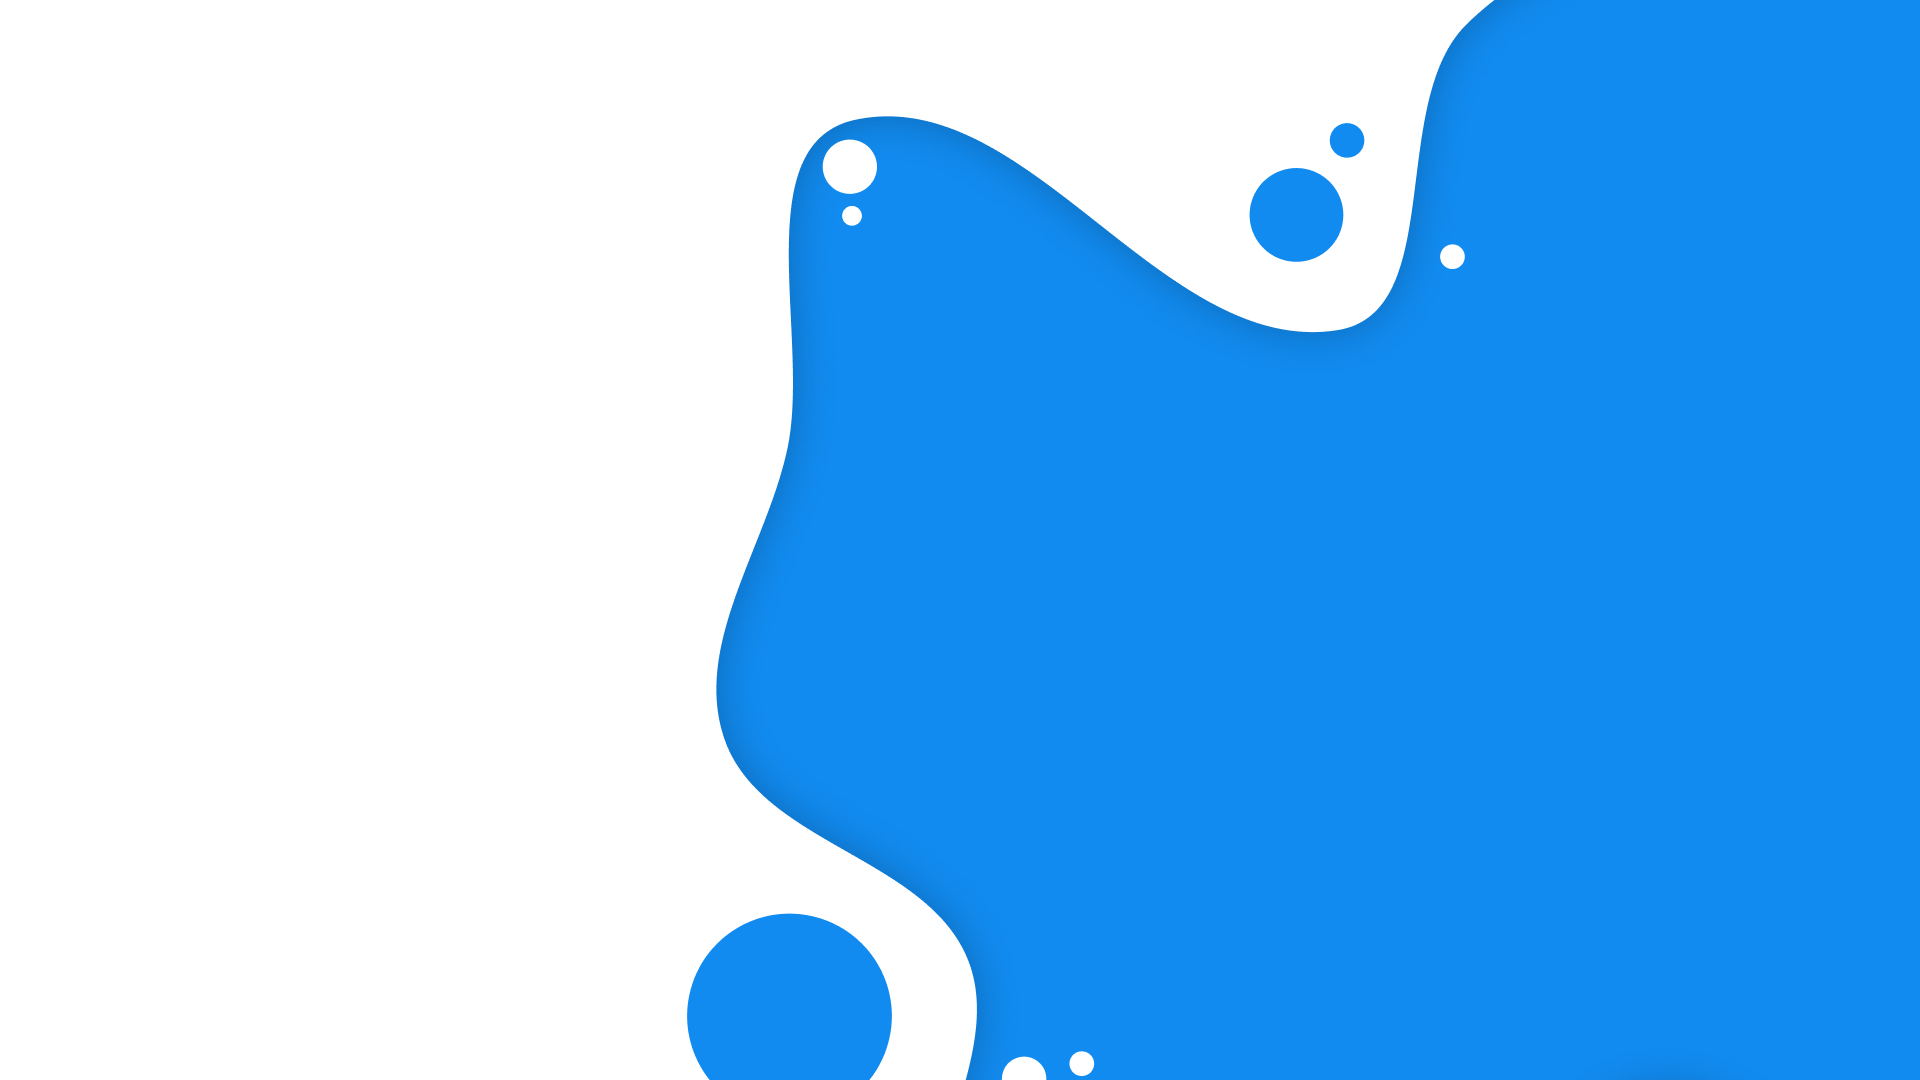
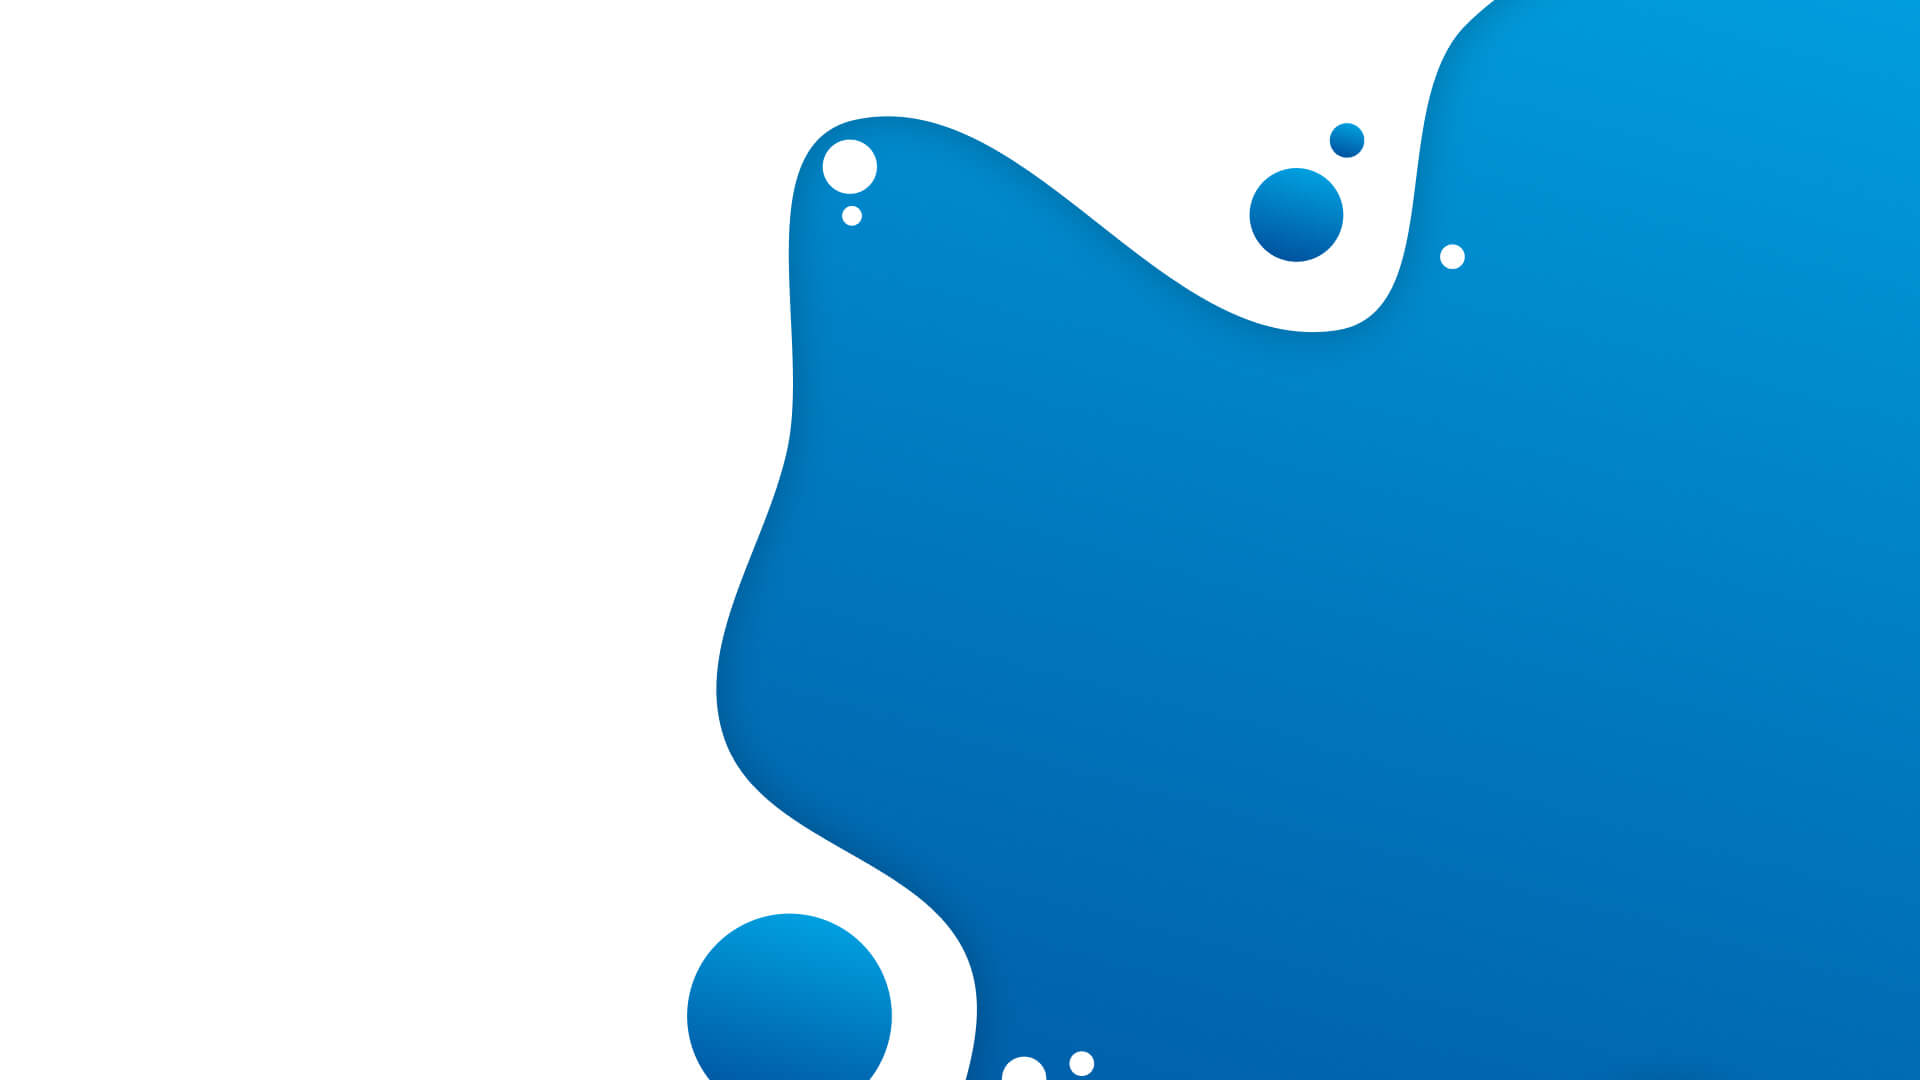
albertsons

diff --git a/src/svg.js b/src/svg.js
@@ -26,21 +26,21 @@ export const Machine = (props) => {
 <svg className="w-30 fade pos-abs" viewBox="0 0 557 851" fill="none" xmlns="http://www.w3.org/2000/svg">
     <g id="machine">
       <path id="Vector" d="M387 214.6V786.38H412.32C491.9 786.38 556.42 757.23 556.42 721.27V279.71C556.42 243.71 491.9 214.6 412.32 214.6H387Z" fill="#0071CE" />
-      <path id="Vector_2" d="M472 260C473.359 260 474.504 259.277 474.653 258.348L476 242.8C476 241.26 474.221 240 472 240C469.768 240 468 241.26 468 242.8L469.359 258.348C469.502 259.277 470.641 260 472 260Z" fill="#FFC220" />
-      <path id="Vector_3" d="M463.5 265.311C464.201 264.007 464.161 262.56 463.404 261.914L450.314 252.295C448.953 251.46 446.915 252.454 445.749 254.56C444.585 256.663 444.821 259.023 446.155 259.841L460.647 266.902C461.574 267.267 462.787 266.589 463.5 265.298" fill="#FFC220" />
-      <path id="Vector_4" d="M480.482 265.288C481.224 266.578 482.438 267.256 483.342 266.91L497.848 259.833C499.196 258.999 499.398 256.663 498.258 254.561C497.094 252.456 495.041 251.469 493.682 252.286L480.576 261.892C479.849 262.547 479.796 264.001 480.498 265.301" fill="#FFC220" />
-      <path id="Vector_5" d="M472 280C473.359 280 474.504 280.723 474.653 281.653L476 297.211C476 298.751 474.221 300 472 300C469.768 300 468 298.751 468 297.211L469.359 281.653C469.502 280.723 470.641 280 472 280Z" fill="#FFC220" />
-      <path id="Vector_6" d="M480.482 274.712C481.224 273.418 482.438 272.727 483.342 273.102L497.848 280.168C499.196 280.986 499.398 283.343 498.258 285.449C497.094 287.538 495.041 288.532 493.682 287.714L480.576 278.092C479.849 277.443 479.796 275.996 480.498 274.712" fill="#FFC220" />
-      <path id="Vector_7" d="M463.5 274.698C464.201 275.999 464.161 277.444 463.404 278.096L450.314 287.705C448.953 288.54 446.915 287.542 445.749 285.452C444.585 283.349 444.821 280.988 446.155 280.17L460.647 273.101C461.574 272.729 462.787 273.414 463.5 274.698Z" fill="#FFC220" />
+      <g id="Group 71">
+        <path id="Vector_2" d="M466.49 254.098C458.438 263.156 450.386 272.951 442.581 282.205C442.136 282.746 441.889 283.435 441.543 284.026C440.308 287.127 441.247 290.819 443.667 292.886C448.163 292.985 452.51 293.083 457.203 292.886C457.153 292.493 456.808 292.246 456.61 291.902C454.98 289.49 454.98 285.946 456.511 283.534C464.415 273.788 472.566 264.288 480.865 254.541C480.964 254.443 481.112 254.197 480.865 254.098C478.79 254.148 476.715 254.098 474.641 254.049C473.06 254.049 471.528 254 470.046 254C468.861 254 467.675 254 466.49 254.098Z" fill="#00539F" />
+        <path id="Vector_3" d="M475.049 263.122L475 263.606L485.628 276.272C487.704 278.883 490.076 281.252 491.905 284.008C493.24 286.763 492.745 290.438 490.768 292.807L490.818 293H504.016C504.856 292.855 505.301 291.985 505.894 291.356C507.327 288.842 507.426 285.361 505.844 282.944C498.133 273.662 490.274 264.234 482.464 255.048L482.118 255L475.049 263.122Z" fill="#00A0E0" />
+        <path id="Vector_4" d="M469.627 272.351C467.352 277.307 471.847 280.973 473.9 285C475.176 282.418 477.84 280.198 478.616 277.307C480.226 272.918 476.397 269.408 474.066 266C472.512 268.065 470.737 270.13 469.627 272.351Z" fill="#00539F" />
+        <path id="Vector_5" d="M461.87 280C461.323 280 460.776 280 460.229 280L460.08 280.099C459.881 281.73 460.03 283.46 460.776 284.943C462.466 288.255 465.946 289.738 469.624 289.342C471.613 289.639 473.353 291.072 473.8 293C474.397 291.962 475.092 290.43 476.435 289.886C478.97 288.798 482.35 289.836 484.488 288.008C487.172 286.327 488.514 283.114 487.818 280.099C487.122 280.099 486.377 280.099 485.681 280.049C483.096 280 480.411 279.901 478.423 281.335C476.186 282.62 474.745 284.795 473.949 287.118C473.204 285.091 471.961 282.966 470.122 281.73C468.233 280.247 465.797 280.049 463.311 280.049C462.864 280 462.367 280 461.87 280Z" fill="#00539F" />
+      </g>
       <path id="Vector 2" opacity="0.25" d="M395.581 761.24H387.191V242.66C389.531 248.88 392.391 253.4 395.581 255.49V761.24Z" fill="white" />
       <path id="Vector 3" opacity="0.25" d="M544 276.33V292.89C544 262.24 489 237.39 421.19 237.39H399.57V220.84H421.14C488.94 220.84 544 245.67 544 276.33Z" fill="#F7F9FF" />
       <path id="Vector 4" opacity="0.25" d="M556.44 696.13V721.27C556.44 757.27 491.92 786.38 412.34 786.38H387V761.24H412.32C491.92 761.24 556.44 732.1 556.44 696.13Z" fill="#181818" />
       <path id="Vector 5" opacity="0.25" d="M556.44 696.13V721.27C556.44 757.27 491.92 786.38 412.34 786.38H387V761.24H412.32C491.92 761.24 556.44 732.1 556.44 696.13Z" fill="#181818" />
       <path id="Vector 6" opacity="0.25" d="M541.69 311.48C544.83 311.48 547.37 309.42 547.37 306.88C547.37 304.34 544.83 302.29 541.69 302.29C538.55 302.29 536.02 304.35 536.02 306.88C536.02 309.41 538.56 311.48 541.69 311.48Z" fill="#F7F9FF" />
-      <path id="dropHeight" d="M478.391 313.38H468.801V687.58H478.391V313.38Z" fill="#005397" />
+      <path id="dropHeight" d="M478.391 313.38H468.801V687.58H478.391V313.38Z" fill="#00579F" />
       <g id="pull" className="hov trans" onClick={ctr === 1 ? clicked : undefined}>
         <path id="Vector 7" d="M544.71 332.31V365.14C544.72 365.303 544.72 365.467 544.71 365.63V366.47C544.37 371.369 542.179 375.955 538.582 379.297C534.985 382.64 530.251 384.489 525.34 384.47H427.34C422.455 384.482 417.746 382.645 414.158 379.328C410.571 376.012 408.371 371.461 408 366.59C408 366.18 408 365.76 408 365.35V332.35C408.004 329.803 408.51 327.282 409.489 324.931C410.467 322.58 411.9 320.445 413.705 318.648C415.509 316.851 417.65 315.427 420.005 314.458C422.36 313.489 424.883 312.993 427.43 313H525.32C530.449 313.005 535.367 315.04 539 318.66C542.633 322.28 544.686 327.191 544.71 332.32V332.31Z" fill="#51678D" />
-        <path id="Vector 8" d="M542.269 329.76V361.5C542.289 361.656 542.289 361.814 542.269 361.97V362.79C541.929 367.503 539.822 371.913 536.37 375.14C532.917 378.366 528.374 380.17 523.649 380.19H429.429C424.724 380.17 420.198 378.382 416.749 375.181C413.3 371.98 411.18 367.601 410.809 362.91C410.809 362.51 410.809 362.11 410.809 361.71V329.76C410.806 327.296 411.29 324.855 412.232 322.578C413.174 320.301 414.555 318.231 416.298 316.489C418.04 314.746 420.11 313.365 422.387 312.423C424.664 311.481 427.105 310.997 429.569 311H523.569C528.536 311.013 533.295 312.996 536.802 316.512C540.309 320.029 542.279 324.793 542.279 329.76H542.269Z" fill="#FFC220" />
+        <path id="Vector 8" d="M542.269 329.76V361.5C542.289 361.656 542.289 361.814 542.269 361.97V362.79C541.929 367.503 539.822 371.913 536.37 375.14C532.917 378.366 528.374 380.17 523.649 380.19H429.429C424.724 380.17 420.198 378.382 416.749 375.181C413.3 371.98 411.18 367.601 410.809 362.91C410.809 362.51 410.809 362.11 410.809 361.71V329.76C410.806 327.296 411.29 324.855 412.232 322.578C413.174 320.301 414.555 318.231 416.298 316.489C418.04 314.746 420.11 313.365 422.387 312.423C424.664 311.481 427.105 310.997 429.569 311H523.569C528.536 311.013 533.295 312.996 536.802 316.512C540.309 320.029 542.279 324.793 542.279 329.76H542.269Z" fill="#00A0E0" />
         <path id="Vector 9" d="M533.322 319.32C531.073 317.122 528.047 315.9 524.902 315.92H428.112C426.537 315.888 424.971 316.163 423.502 316.73C421.29 317.59 419.382 319.086 418.021 321.03C416.659 322.973 415.904 325.277 415.852 327.65V365.16C415.863 366.176 416.014 367.186 416.302 368.16C416.835 369.986 417.795 371.658 419.102 373.04C420.243 374.259 421.625 375.227 423.161 375.881C424.697 376.535 426.353 376.862 428.022 376.84H524.802C527.434 376.853 530 376.011 532.112 374.44C532.723 373.992 533.286 373.483 533.792 372.92C535.064 371.561 536.002 369.924 536.532 368.14C536.811 367.165 536.953 366.155 536.952 365.14V327.65C536.881 324.505 535.577 321.513 533.322 319.32ZM534.532 362.7C534.527 364.411 534.137 366.099 533.392 367.64C532.647 369.193 531.564 370.56 530.222 371.64C527.992 373.424 525.218 374.391 522.362 374.38H430.622C427.728 374.383 424.921 373.39 422.672 371.57C421.34 370.501 420.264 369.148 419.522 367.61C418.78 366.072 418.39 364.388 418.382 362.68V330.06C418.419 327.667 419.187 325.342 420.583 323.397C421.979 321.452 423.936 319.981 426.192 319.18C427.596 318.671 429.078 318.411 430.572 318.41H522.322C523.803 318.41 525.272 318.67 526.662 319.18C528.938 319.972 530.915 321.446 532.324 323.402C533.732 325.357 534.503 327.7 534.532 330.11V362.7Z" fill="#51678D" />
         <path id="Vector 10" opacity="0.3" d="M539.499 326.26V329.15C539.575 325.705 538.28 322.371 535.899 319.88C534.721 318.645 533.311 317.656 531.749 316.97C530.187 316.283 528.505 315.913 526.799 315.88H426.209C424.502 315.915 422.818 316.286 421.254 316.972C419.69 317.658 418.277 318.645 417.095 319.878C415.913 321.11 414.985 322.563 414.365 324.154C413.744 325.745 413.443 327.443 413.479 329.15V326.26C413.409 322.814 414.711 319.481 417.098 316.994C419.486 314.508 422.763 313.071 426.209 313H526.799C530.242 313.079 533.513 314.52 535.894 317.008C538.275 319.496 539.571 322.827 539.499 326.27V326.26Z" fill="#F7F9FF" />
         <path id="Vector 11" opacity="0.15" d="M541.929 363.18C541.586 367.891 539.478 372.299 536.026 375.523C532.574 378.747 528.033 380.55 523.309 380.57H429.179C424.474 380.55 419.948 378.762 416.499 375.561C413.05 372.36 410.93 367.981 410.559 363.29C410.85 365.726 411.957 367.992 413.699 369.72C415.505 371.57 417.813 372.849 420.339 373.4C421.457 373.684 422.606 373.825 423.759 373.82H528.759C529.911 373.822 531.059 373.688 532.179 373.42C534.717 372.864 537.034 371.569 538.839 369.7C540.574 367.933 541.672 365.639 541.959 363.18H541.929Z" fill="#212121" />
@@ -62,13 +62,13 @@ export const Machine = (props) => {
         <path id="Vector 21" opacity="0.5" d="M89.7319 657.87V683.71L33.6719 601.43V575.6L89.7319 657.87Z" fill="#F7F9FF" />
       </g>
       <g id="pointer">
-        <path id="Vector_3_2" d="M60.49 495.69L0 556.18V435.2L60.49 495.69Z" fill="#FFC220" />
+        <path id="Vector_3_2" d="M60.49 495.69L0 556.18V435.2L60.49 495.69Z" fill="#00A0E0" />
         <path id="Vector_4_2" opacity="0.45" d="M60.49 495.69L0 556.18V549.78L33.67 519.67L45.79 508.83L60.49 495.69Z" fill="#AD5A1E" />
         <path id="Vector 24" opacity="0.45" d="M54.5614 492.75L55.3414 491.97L6.72141 443.35L5.94141 444.13L54.5614 492.75Z" fill="#F7F9FF" />
       </g>
-      <path id="Vector 25" d="M330.608 0H58.7981C55.6897 0 52.7087 1.23478 50.5108 3.43271C48.3128 5.63063 47.0781 8.61166 47.0781 11.72V112.8C47.0781 115.908 48.3128 118.889 50.5108 121.087C52.7087 123.285 55.6897 124.52 58.7981 124.52H330.608C333.716 124.52 336.697 123.285 338.895 121.087C341.093 118.889 342.328 115.908 342.328 112.8V11.72C342.328 8.61166 341.093 5.63063 338.895 3.43271C336.697 1.23478 333.716 0 330.608 0Z" fill="#FFC220" />
-      <g id="Vector 34" filter="url(#filter0_i_420_1954)">
-        <path d="M335.281 19.41V105.13C335.278 108.238 334.043 111.219 331.846 113.418C329.649 115.617 326.669 116.855 323.561 116.86H65.8411C62.7318 116.857 59.7508 115.62 57.5532 113.421C55.3556 111.221 54.1211 108.239 54.1211 105.13V19.41C54.1198 17.6728 54.506 15.9572 55.2516 14.3882C55.9972 12.8191 57.0834 11.4362 58.4311 10.34C59.2597 9.64958 60.1822 9.08055 61.1711 8.65002C62.6512 8.00453 64.2464 7.66441 65.8611 7.65002H323.561C326.669 7.65267 329.648 8.8883 331.845 11.0856C334.043 13.283 335.278 16.2625 335.281 19.37V19.41Z" fill="#FFC220" />
+      <path id="Vector 25" d="M330.608 0H58.7981C55.6897 0 52.7087 1.23478 50.5108 3.43271C48.3128 5.63063 47.0781 8.61166 47.0781 11.72V112.8C47.0781 115.908 48.3128 118.889 50.5108 121.087C52.7087 123.285 55.6897 124.52 58.7981 124.52H330.608C333.716 124.52 336.697 123.285 338.895 121.087C341.093 118.889 342.328 115.908 342.328 112.8V11.72C342.328 8.61166 341.093 5.63063 338.895 3.43271C336.697 1.23478 333.716 0 330.608 0Z" fill="#00A0E0" />
+      <g id="Vector 34" filter="url(#filter0_i_420_1953)">
+        <path d="M335.281 19.41V105.13C335.278 108.238 334.043 111.219 331.846 113.418C329.649 115.617 326.669 116.855 323.561 116.86H65.8411C62.7318 116.857 59.7508 115.62 57.5532 113.421C55.3556 111.221 54.1211 108.239 54.1211 105.13V19.41C54.1198 17.6728 54.506 15.9572 55.2516 14.3882C55.9972 12.8191 57.0834 11.4362 58.4311 10.34C59.2597 9.64958 60.1822 9.08055 61.1711 8.65002C62.6512 8.00453 64.2464 7.66441 65.8611 7.65002H323.561C326.669 7.65267 329.648 8.8883 331.845 11.0856C334.043 13.283 335.278 16.2625 335.281 19.37V19.41Z" fill="#00A0E0" />
       </g>
       <path id="Vector 26" d="M109.8 124.52H99V150.9H109.8V124.52Z" fill="#51678D" />
       <path id="Vector 27" d="M294.79 124.52H284V150.9H294.79V124.52Z" fill="#51678D" />
@@ -85,7 +85,7 @@ export const Machine = (props) => {
       <path id="Vector 37" opacity="0.5" d="M342 59.9828V86L272 0H293.145L342 59.9828Z" fill="#F7F9FF" />
     </g>
   <defs>
-    <filter id="filter0_i_420_1954" x="54.1211" y="7.65002" width="281.16" height="109.21" filterUnits="userSpaceOnUse" colorInterpolationFilters="sRGB">
+    <filter id="filter0_i_420_1953" x="54.1211" y="7.65002" width="281.16" height="109.21" filterUnits="userSpaceOnUse" colorInterpolationFilters="sRGB">
       <feFlood floodOpacity="0" result="BackgroundImageFix" />
       <feBlend mode="normal" in="SourceGraphic" in2="BackgroundImageFix" result="shape" />
       <feColorMatrix in="SourceAlpha" type="matrix" values="0 0 0 0 0 0 0 0 0 0 0 0 0 0 0 0 0 0 127 0" result="hardAlpha" />
@@ -93,7 +93,7 @@ export const Machine = (props) => {
       <feGaussianBlur stdDeviation="7.5" />
       <feComposite in2="hardAlpha" operator="arithmetic" k2="-1" k3="1" />
       <feColorMatrix type="matrix" values="0 0 0 0 0 0 0 0 0 0 0 0 0 0 0 0 0 0 0.25 0" />
-      <feBlend mode="normal" in2="shape" result="effect1_innerShadow_420_1954" />
+      <feBlend mode="normal" in2="shape" result="effect1_innerShadow_420_1953" />
     </filter>
   </defs>
 </svg>

diff --git a/public/styles.css b/public/styles.css
@@ -618,18 +618,18 @@ span {
   padding: 15px;
   font-family: "Montserrat", sans-serif;
   font-weight: bold;
-  color: #ffca2b;
+  color: #fff;
   border: 1px solid white;
   border-radius: 50px;
-  background-color: #0071CE;
+  background-color: #00539F;
   -webkit-transition: 0.5s ease-in-out;
   transition: 0.5s ease-in-out;
 }
 
 .btn-trans {
-  border: 1px solid #0071CE;
+  border: 1px solid #00539F;
   background-color: transparent;
-  color: #0071CE;
+  color: #00539F;
 }
 
 .btn:hover {
@@ -682,7 +682,7 @@ span {
 }
 
 .bg-org {
-  background-color: #0071CE;
+  background-color: #00539F;
   color: white;
   border: 1px solid white;
 }
@@ -890,7 +890,7 @@ span {
 
 @media (max-width: 640px) {
   .logo {
-    width: 30% !important;
+    width: 15% !important;
   }
   .door {
     margin-right: 15% !important;

diff --git a/public/_struct.scss b/public/_struct.scss
@@ -380,16 +380,16 @@
   padding: 15px;
   font-family: $mont;
   font-weight: bold;
-  color: #ffca2b;
+  color: #fff;
   border: 1px solid $wht;
   border-radius: 50px;
-  background-color: #0071CE;
+  background-color: #00539F;
   transition: 0.5s ease-in-out;
 
   &-trans{
-    border: 1px solid #0071CE;
+    border: 1px solid #00539F;
     background-color: transparent;
-    color: #0071CE;
+    color: #00539F;
   }
 
   &:hover {
@@ -439,7 +439,7 @@
     background-repeat: no-repeat;
   }
   &-org {
-    background-color: #0071CE;
+    background-color: #00539F;
     color: white;
     border: 1px solid $wht;
   }

diff --git a/src/App.js b/src/App.js
@@ -23,7 +23,7 @@ function App() {
 
   return (
     <div className="App h-100 w-100 pos-rel">
-      <img src="./img/logoWal.svg" alt="logo" className="logo"/>
+      <img src="./img/logoAlb.svg" alt="logo" className="logo"/>
       {info.pop && <Pop info={info} upd={updInfo} />}
       {mobile || land ? (
         <Mob

diff --git a/public/index.html b/public/index.html
@@ -56,7 +56,7 @@
         src:undefined
       };
     </script>
-    <title>Walmart Single Spin Rewards!</title>
+    <title>Albertsons Single Spin Rewards!</title>
   </head>
   <body class="bg-img h-vh ovr-hide">
     <div id="root" class="h-100"></div>

diff --git a/public/_query.scss b/public/_query.scss
@@ -26,7 +26,7 @@
 
 @media (max-width: 640px) {
   .logo{
-    width: 30%!important;
+    width: 15%!important;
   }
   .door {
     margin-right: 15% !important;
